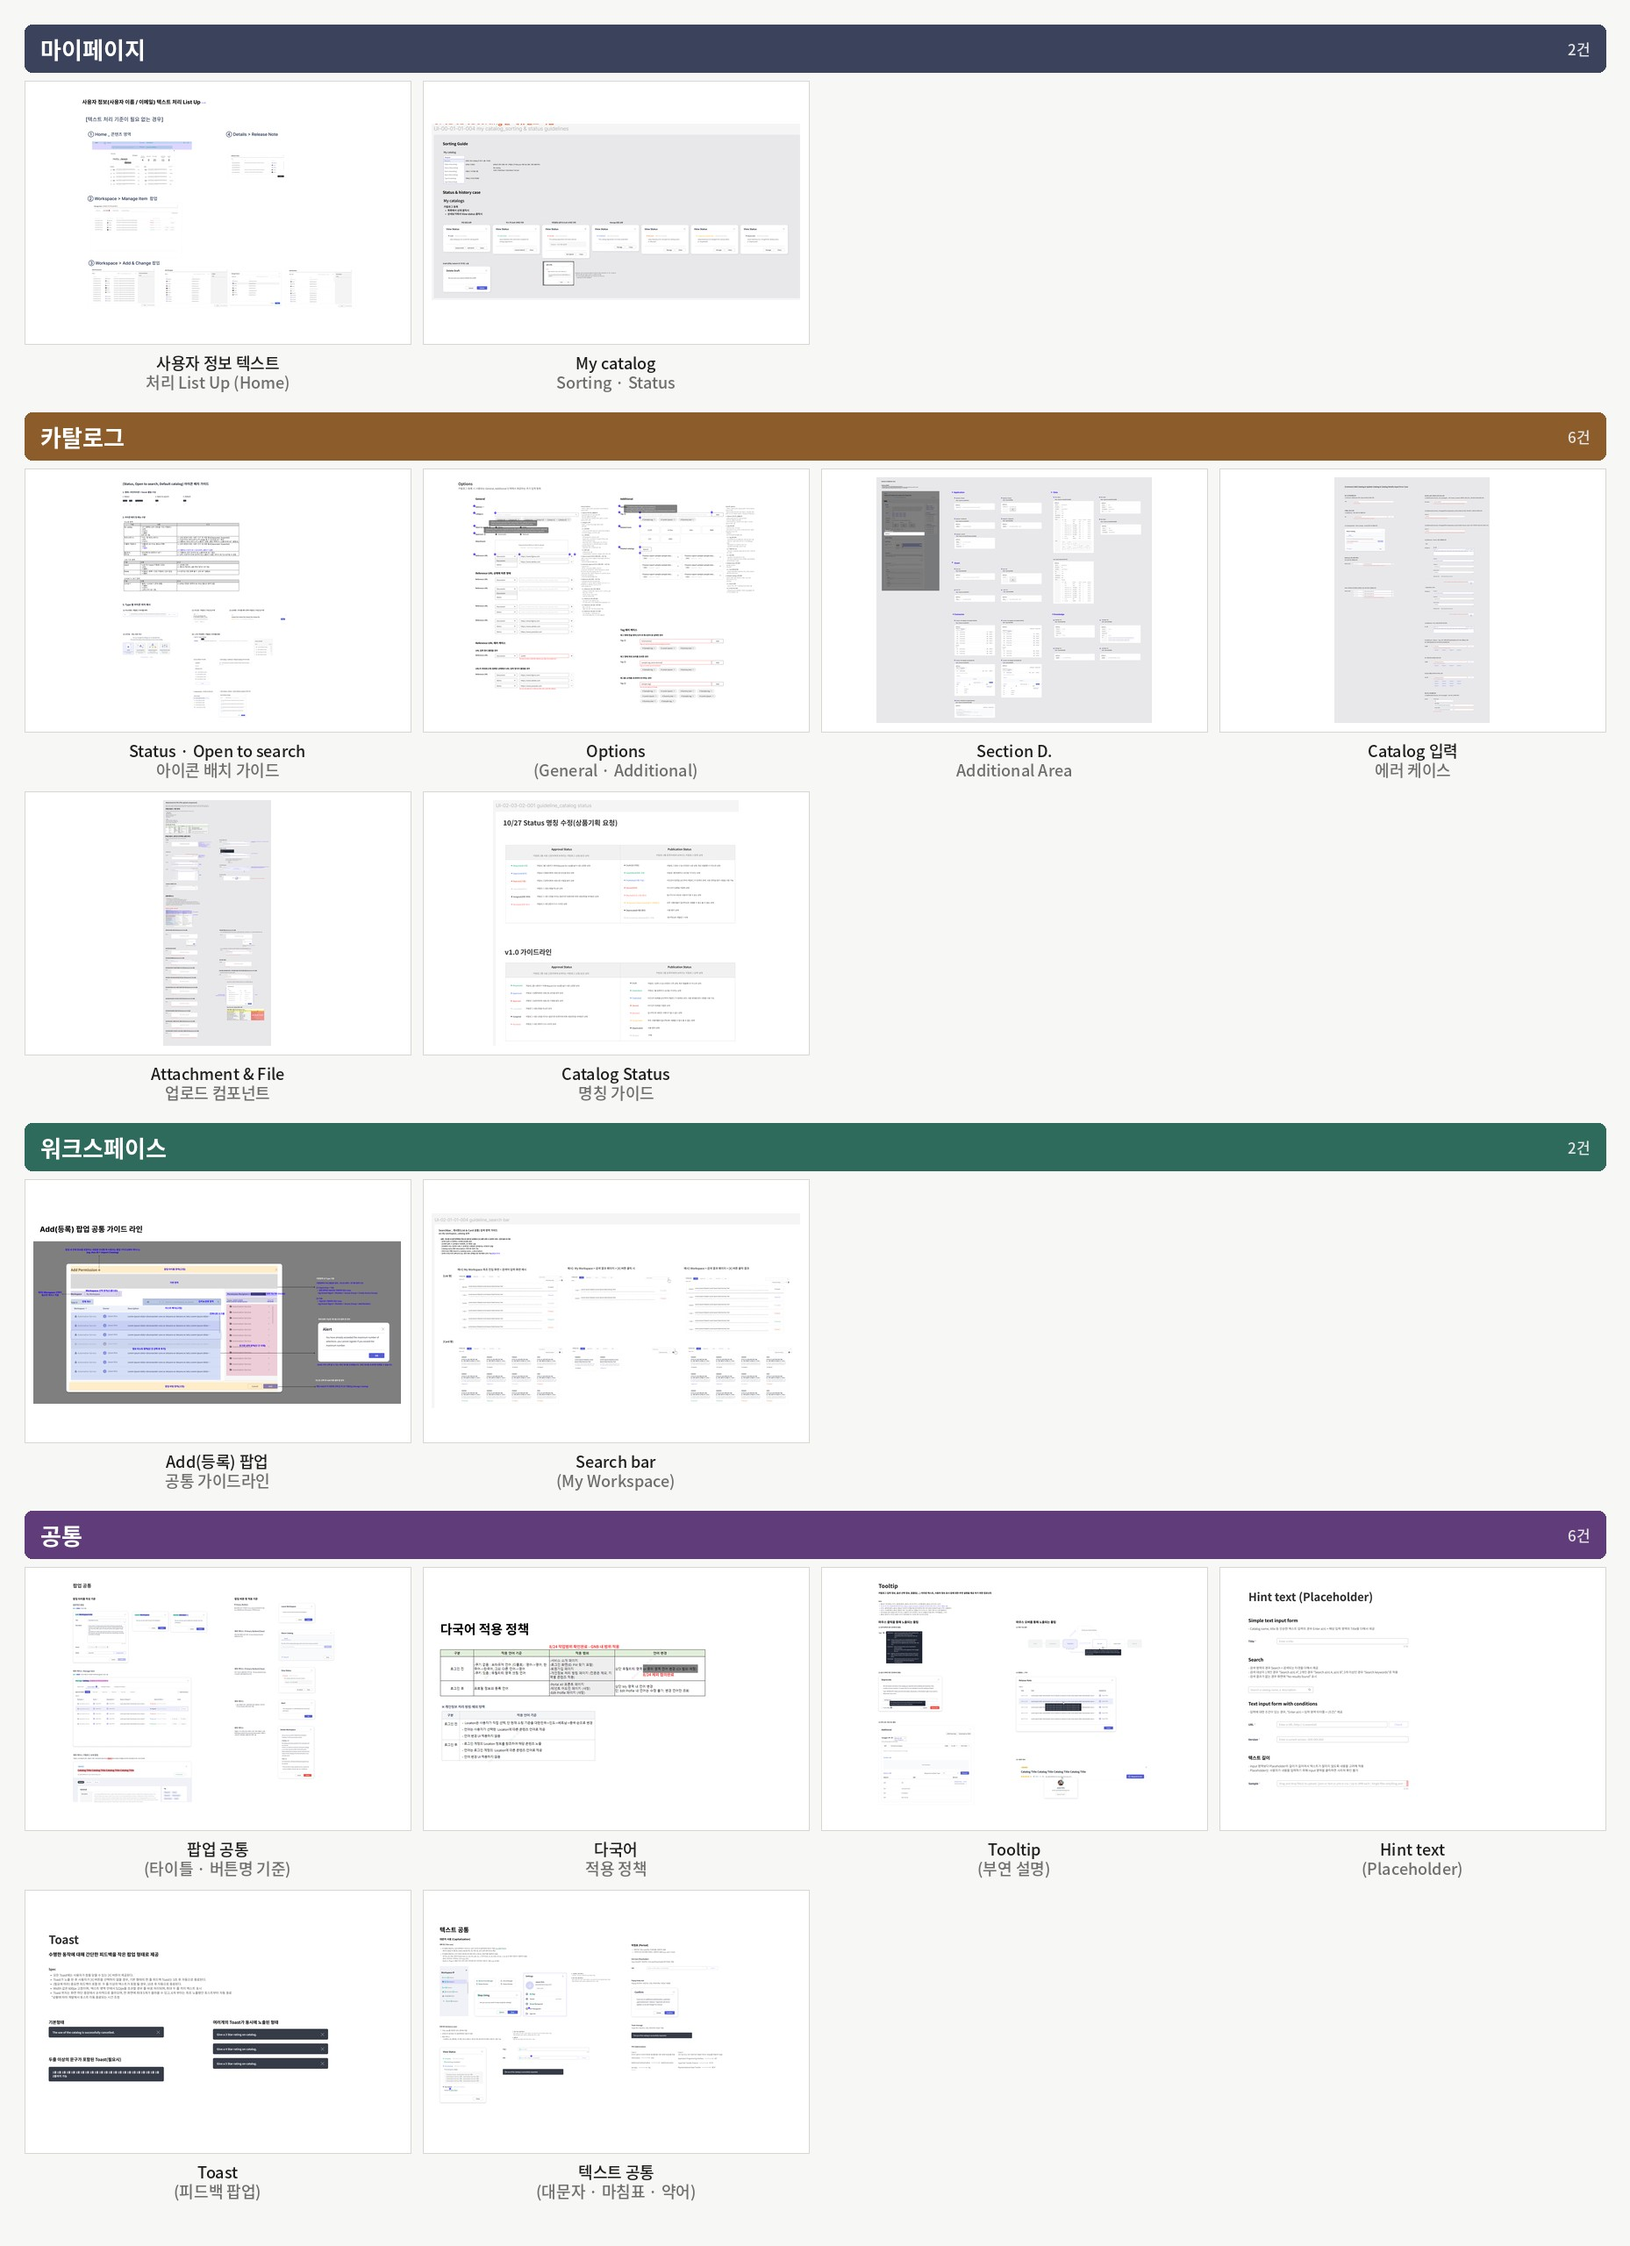
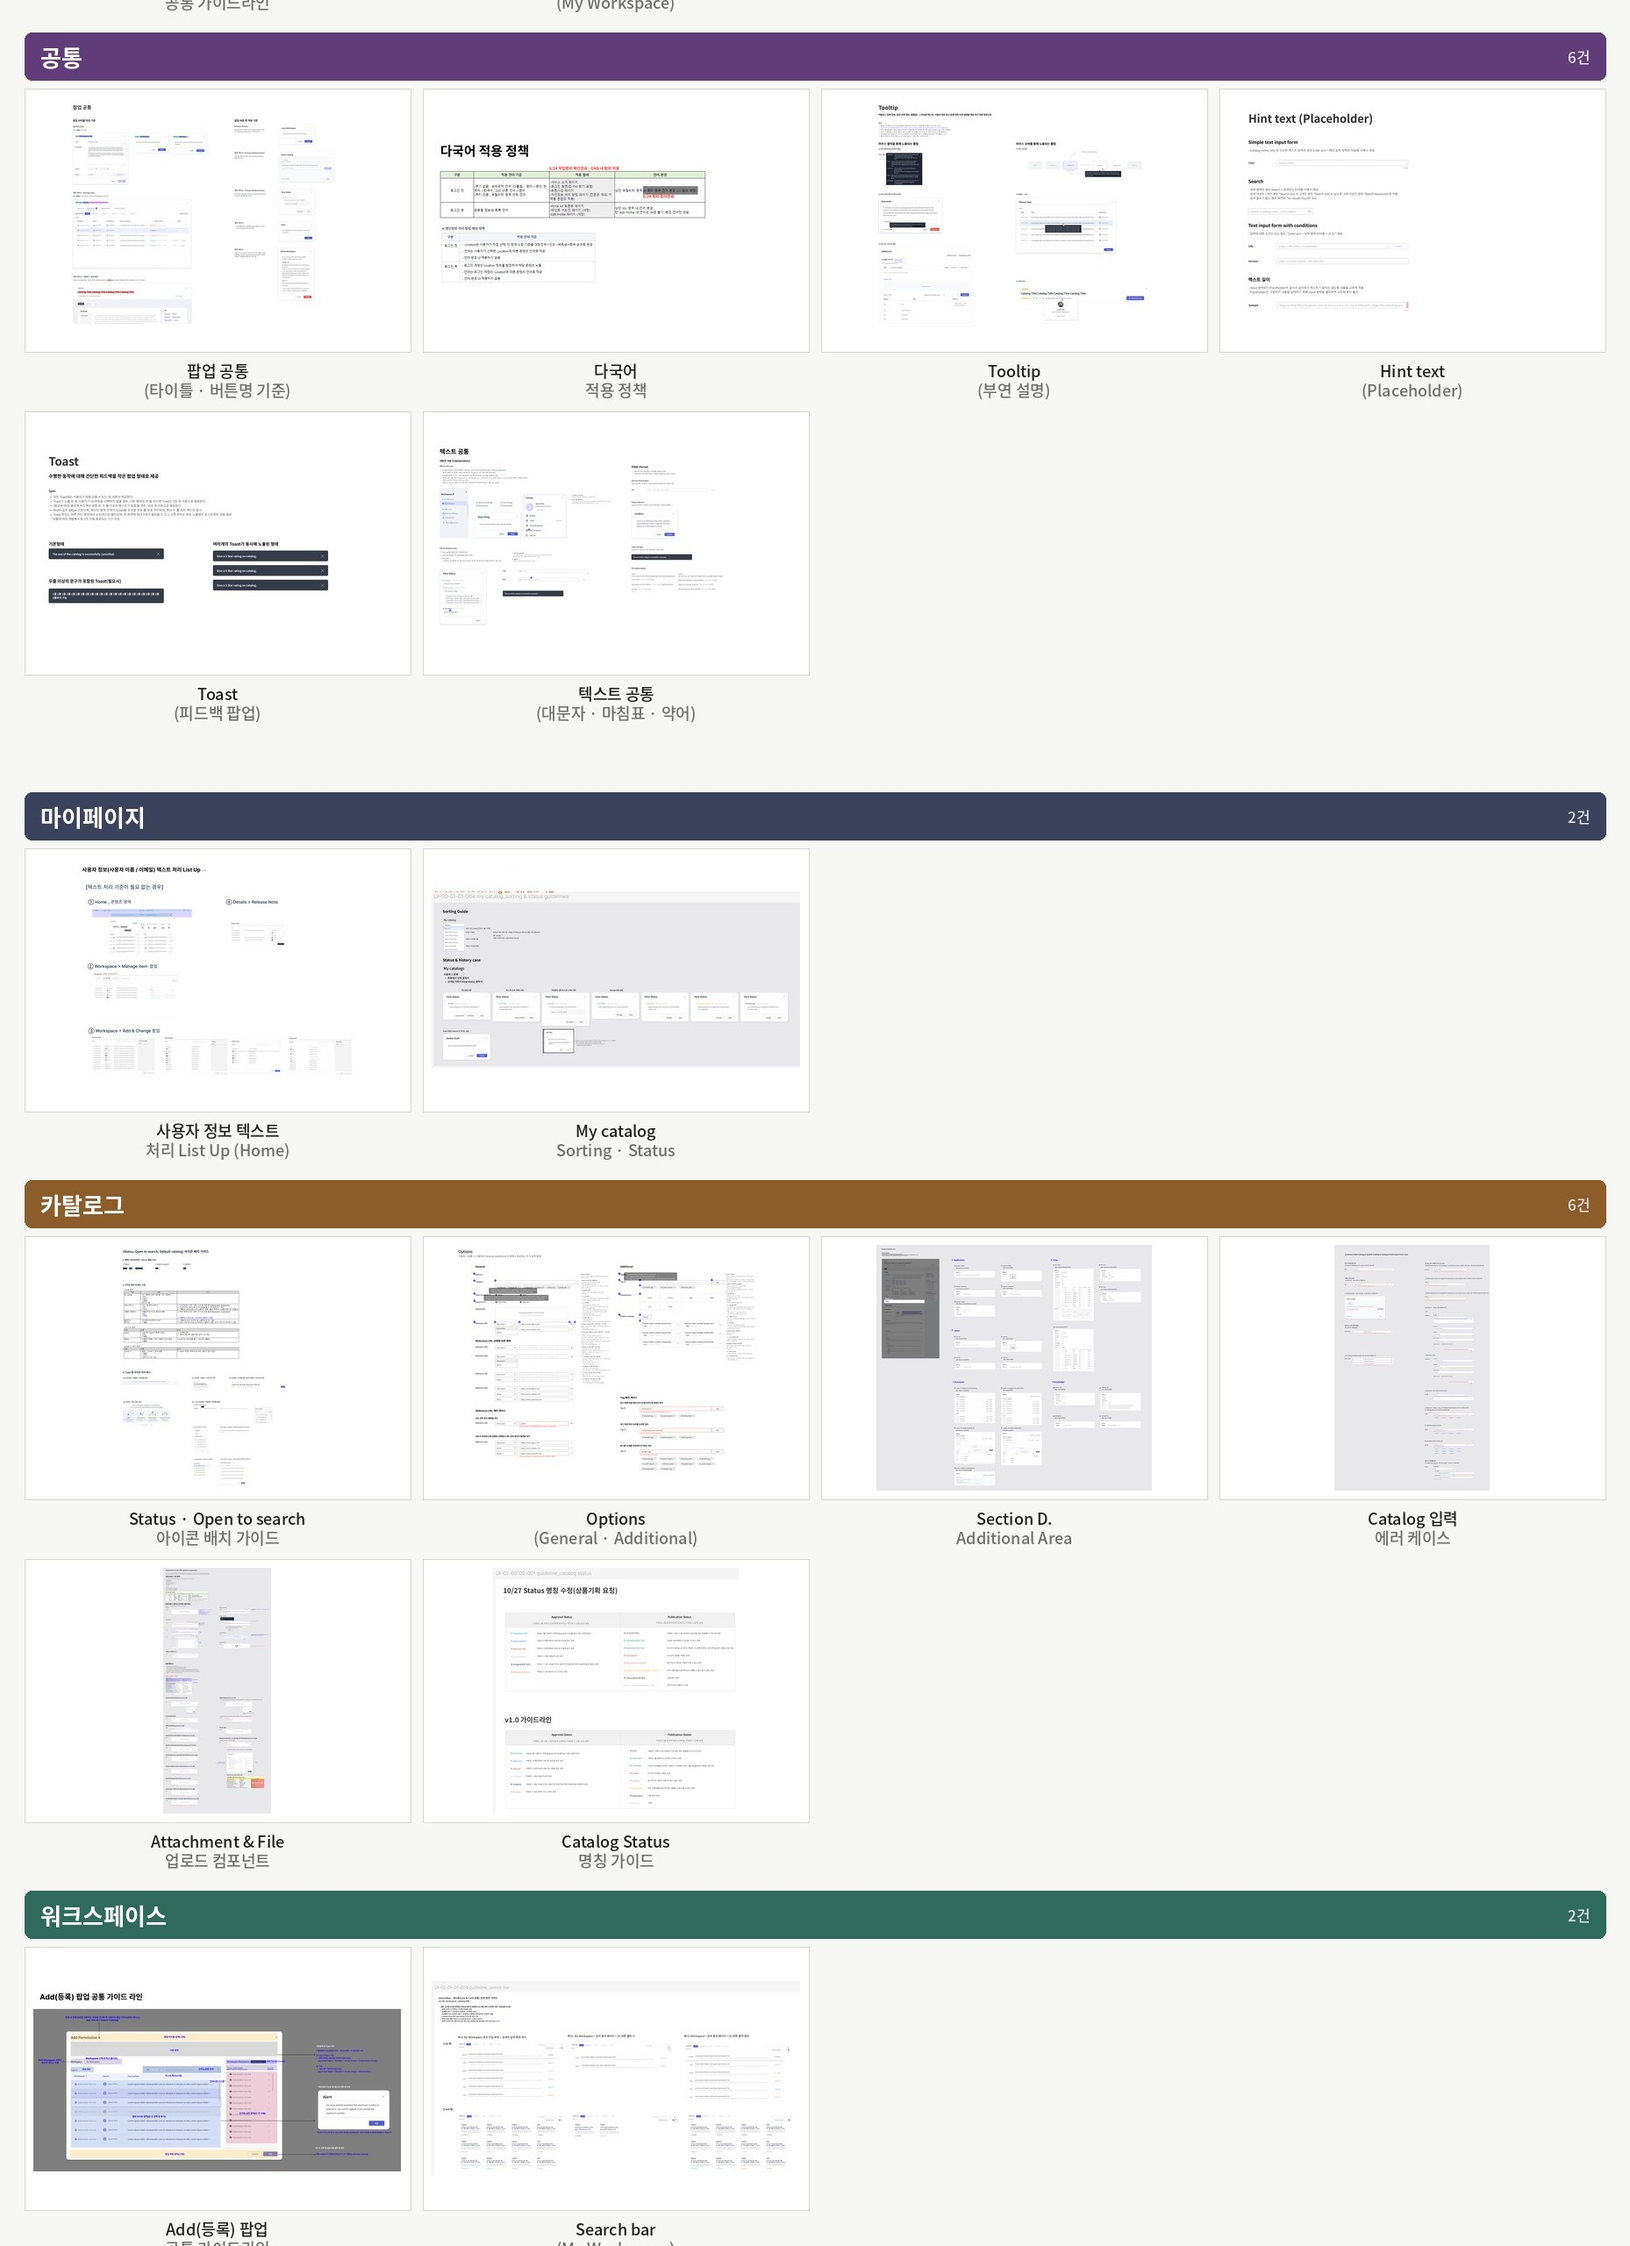
Add FabriX catalog screenshots and reorder common guide
- Fill the FabriX 카탈로그 group with 7 real Add Catalog / detail
  page screenshots, replacing the placeholder card.
- Move the 공통 (common) band to the top of the FabriX common
  UI/UX guide composite image.
- Reword the Default Catalog caption to clarify it's scoped to
  users with Default catalog permission.

diff --git a/index.html b/index.html
@@ -318,11 +318,11 @@
         <div class="label">산출물</div>
         <div>
         <div class="lchips" id="fx-chips">
-          <button type="button" class="lchip on" data-fg="all">전체<span>(16)</span></button>
+          <button type="button" class="lchip on" data-fg="all">전체<span>(22)</span></button>
           <button type="button" class="lchip" data-fg="guide">공통가이드<span>(1)</span></button>
           <button type="button" class="lchip" data-fg="mypage">마이페이지<span>(4)</span></button>
           <button type="button" class="lchip" data-fg="workspace">워크스페이스<span>(10)</span></button>
-          <button type="button" class="lchip" data-fg="catalog">카탈로그<span>(1)</span></button>
+          <button type="button" class="lchip" data-fg="catalog">카탈로그<span>(7)</span></button>
         </div>
 
         <div class="fx-groups">
@@ -338,7 +338,7 @@
           <div class="fx-body">
           <div class="shot-grid pair">
 <figure class="zoomable fx-item"><div class="frame"><img src="images/fabrix-mypage-my-catalog.jpg" alt="FabriX My Catalog" loading="lazy" style="object-fit:contain"></div><figcaption><b>My Catalog</b>카탈로그 타입 필터 · 정렬 · Status 노출</figcaption></figure>
-            <figure class="zoomable fx-item"><div class="frame"><img src="images/fabrix-mypage-default-catalog.jpg" alt="FabriX Default Catalog" loading="lazy" style="object-fit:contain"></div><figcaption><b>Default Catalog</b>전 사용자에게 노출되는 기본 카탈로그 목록</figcaption></figure>
+            <figure class="zoomable fx-item"><div class="frame"><img src="images/fabrix-mypage-default-catalog.jpg" alt="FabriX Default Catalog" loading="lazy" style="object-fit:contain"></div><figcaption><b>Default Catalog</b>Default catalog 사용 권한을 갖은 사용자에게 노출되는 목록</figcaption></figure>
             <figure class="zoomable fx-item"><div class="frame"><img src="images/fabrix-mypage-bookmark.jpg" alt="FabriX Bookmark" loading="lazy" style="object-fit:contain"></div><figcaption><b>Bookmark</b>북마크한 카탈로그 목록 · List/Card 뷰 전환</figcaption></figure>
             <figure class="zoomable fx-item"><div class="frame"><img src="images/fabrix-mypage-credential.jpg" alt="FabriX Credential" loading="lazy" style="object-fit:contain"></div><figcaption><b>Credential</b>연동 시스템 Credential 등록 · 관리</figcaption></figure>
           </div>
@@ -364,13 +364,16 @@
         </div>
 
         <div class="fx-group" data-fg="catalog">
-          <button type="button" class="fx-head" aria-expanded="false"><span class="fx-subhead">카탈로그</span><span class="lcount">1</span><span class="lpm" aria-hidden="true"></span></button>
+          <button type="button" class="fx-head" aria-expanded="false"><span class="fx-subhead">카탈로그</span><span class="lcount">7</span><span class="lpm" aria-hidden="true"></span></button>
           <div class="fx-body">
           <div class="shot-grid pair">
-            <figure>
-              <div class="frame"><img src="images/fabrix-catalog-design.png" alt="" onerror="this.remove()"><div class="ph"><b>설계서</b><code>images/fabrix-catalog-design.png</code></div></div>
-              <figcaption><b>카탈로그 등록 · 수정 · 상세</b>준비 중 — 업로드 예정</figcaption>
-            </figure>
+            <figure class="zoomable fx-item"><div class="frame"><img src="images/fabrix-catalog-general.png" alt="FabriX Add Catalog General" loading="lazy" style="object-fit:contain"></div><figcaption><b>General — 카탈로그 유형 선택</b>Application · Asset · Connector · Data · Knowledge 5종 타입 분기</figcaption></figure>
+            <figure class="zoomable fx-item"><div class="frame"><img src="images/fabrix-catalog-application.png" alt="FabriX Add Catalog Application" loading="lazy" style="object-fit:contain"></div><figcaption><b>Application — Web App 등록</b>URL · 태그 · Related Tools · Related Catalogs 입력</figcaption></figure>
+            <figure class="zoomable fx-item"><div class="frame"><img src="images/fabrix-catalog-asset.png" alt="FabriX Add Catalog Asset" loading="lazy" style="object-fit:contain"></div><figcaption><b>Asset — URL 등록</b>Asset Type 분기와 태그 · 연관 카탈로그 설정</figcaption></figure>
+            <figure class="zoomable fx-item"><div class="frame"><img src="images/fabrix-catalog-connector.png" alt="FabriX Add Catalog Connector" loading="lazy" style="object-fit:contain"></div><figcaption><b>Connector — Non-Packaged 옵션</b>API Context · Run API · Health Check 등 연동 정보 입력</figcaption></figure>
+            <figure class="zoomable fx-item"><div class="frame"><img src="images/fabrix-catalog-data.png" alt="FabriX Add Catalog Data" loading="lazy" style="object-fit:contain"></div><figcaption><b>Data — Data Inventory 등록</b>데이터 타입 변경 시 Confirm 처리</figcaption></figure>
+            <figure class="zoomable fx-item"><div class="frame"><img src="images/fabrix-catalog-knowledge.png" alt="FabriX Add Catalog Knowledge" loading="lazy" style="object-fit:contain"></div><figcaption><b>Knowledge — File 등록</b>지식 문서 업로드와 태그 · 연관 툴 설정</figcaption></figure>
+            <figure class="zoomable fx-item"><div class="frame tall"><img src="images/fabrix-catalog-detail.png" alt="FabriX Catalog Detail" loading="lazy" style="object-fit:contain"></div><figcaption><b>카탈로그 상세 페이지</b>설명 · 태그 · 리뷰 스코어 · 댓글까지 포함한 상세 뷰</figcaption></figure>
           </div>
           </div>
         </div>
